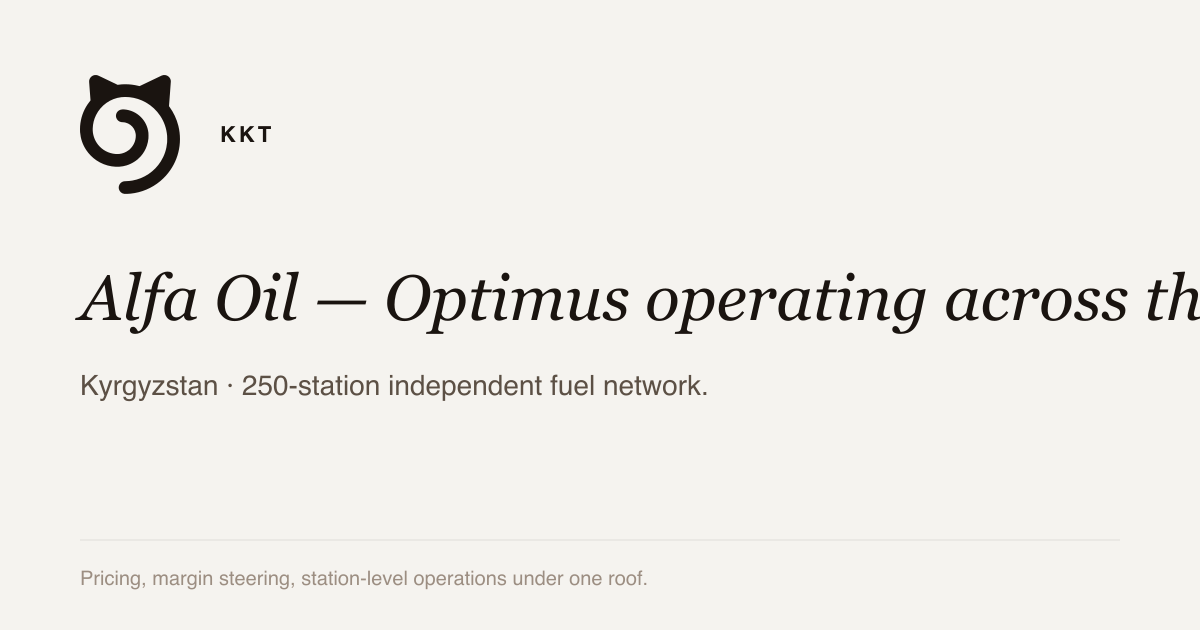
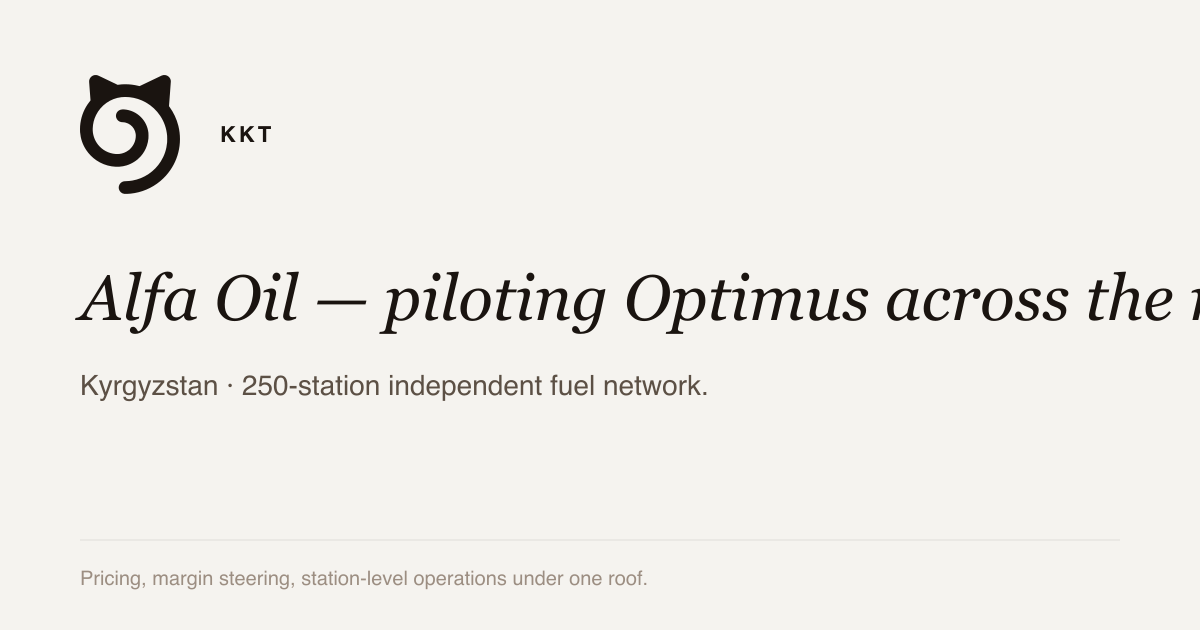
fix: Optimus is in PILOT at Alfa, not production (George's review)
George flagged that Optimus is de-facto not in production at Alfa — Alfa
is currently testing it. The 'in production / live / operating across the
network / stations operating Optimus' claims were overstated and
dangerous (an Alfa contact could see them). Corrected site-wide to
'pilot / live trial / Alfa is testing Optimus': pages, components, the
network map, schema, OG cards, llms.txt, and advisor knowledge. The case
is real, the screenshots are real — it is a live pilot, not full
production.

Changed region(s): [[0.3083, 0.4222, 1.0, 0.5429]]

diff --git a/scripts/generate-og.py b/scripts/generate-og.py
@@ -56,12 +56,12 @@ CAT_PATH = (
 # slug = filename (no extension), saved to public/og/<slug>.png
 PAGES = [
     ('home', 'Operating systems your business runs on.', 'Senior PMO + AI delivery for mid-sized retailers and fuel networks. Tallinn, EU.',
-     'In production at Alfa Oil — a 250-station fuel network, Kyrgyzstan.'),
+     'In pilot at Alfa Oil — a 250-station fuel network, Kyrgyzstan.'),
     ('not-for-you', 'Is this a fit?', 'When we are the right partner — and when we are not.',
      'Reading this and still wanting to talk is a strong signal.'),
     ('optimus', 'Optimus.', 'Daily operating intelligence for fuel networks.',
-     'In production at Alfa Oil — 250 stations, Kyrgyzstan.'),
-    ('alfa-oil', 'Alfa Oil — Optimus operating across the network.', 'Kyrgyzstan · 250-station independent fuel network.',
+     'In pilot at Alfa Oil — 250 stations, Kyrgyzstan.'),
+    ('alfa-oil', 'Alfa Oil — piloting Optimus across the network.', 'Kyrgyzstan · 250-station independent fuel network.',
      'Pricing, margin steering, station-level operations under one roof.'),
     ('case-studies', 'What we shipped, what it moved.', 'Walkable investigations — not vendor decks.',
      'Five named clients. Real production work.'),
@@ -70,7 +70,7 @@ PAGES = [
     ('retail', 'For mid-sized retailers.', 'Margin, cash, customer ownership, decision speed.',
      '30 services across 11 retail domains in the open playbook.'),
     ('fuel-retail', 'For fuel networks.', 'Optimus is the operating engine. Around it, four common starting points.',
-     'Optimus in production at Alfa Oil, Kyrgyzstan.'),
+     'Optimus in pilot at Alfa Oil, Kyrgyzstan.'),
     ('about', 'Kitty Kat Technologies.', 'A senior PMO and AI delivery firm. Tallinn, Estonia.',
      'AI earns its place by moving margin, cash, availability, customer value.'),
     ('contact', 'Book a diagnostic.', 'Two weeks, fixed shape. Decision-grade readout.',

diff --git a/public/api/knowledge/04-optimus.md b/public/api/knowledge/04-optimus.md
@@ -68,11 +68,12 @@ never depends on the web interface.
 - **Forced Order flow:** Senior management override path with audit
   trail and ship-history fallback.
 
-## Live deployments
+## Live pilot
 
-Optimus is in production at **Alfa Oil** (also branded Red Petrol) — an
-independent fuel network in Kyrgyzstan, ~250 stations. Optimus runs
-across the network for procurement and margin. `/case-studies/alfa-oil`.
+Optimus is in pilot at **Alfa Oil** (also branded Red Petrol) — an
+independent fuel network in Kyrgyzstan, ~250 stations. Alfa is currently
+testing Optimus across the network for procurement and margin; it is a
+live trial, not yet full production. `/case-studies/alfa-oil`.
 
 (Do not state a revenue figure, a fuel-type count, or a second
 deployment — those were unverified and have been removed. Only "~250

diff --git a/public/api/knowledge/05-cases.md b/public/api/knowledge/05-cases.md
@@ -11,8 +11,8 @@ varying depth.
 - **Industry:** Fuel retail
 - **Region:** Kyrgyzstan, Central Asia
 - **Network:** ~250 stations, Kyrgyzstan
-- **Status:** Live, in production
-- **Engagement:** Optimus operating across the full network — pricing,
+- **Status:** Live pilot (Alfa is testing Optimus; not yet full production)
+- **Engagement:** Optimus in pilot across the network — pricing,
   margin steering, station-level operations, supplier relationships.
 
 This is the marquee case. When a user asks about KKT's biggest live

diff --git a/public/api/knowledge/01-firm.md b/public/api/knowledge/01-firm.md
@@ -15,7 +15,7 @@ AI delivery for mid-sized retailers and fuel networks. Tallinn, EU.
 ## Where we work
 
 - **Mid-sized retailers** ($50M–$500M revenue range)
-- **Fuel networks** (independent networks; in production at Alfa Oil, ~250 stations)
+- **Fuel networks** (independent networks; in pilot at Alfa Oil, ~250 stations)
 - **Geography:** Central Europe, EU, CIS
 
 ## What makes us different
